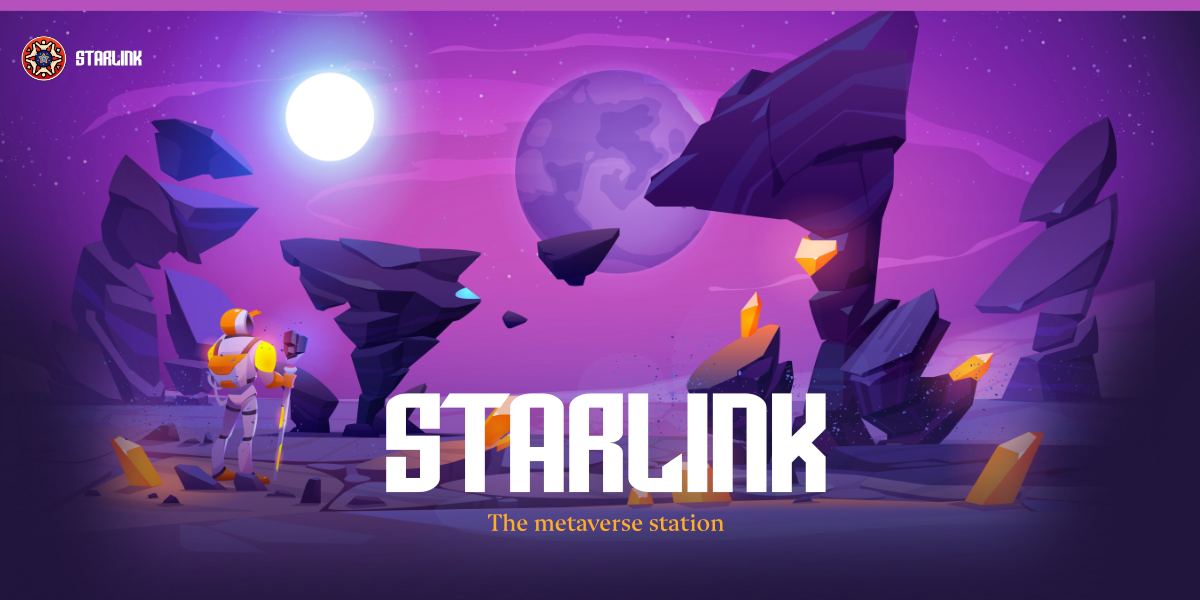
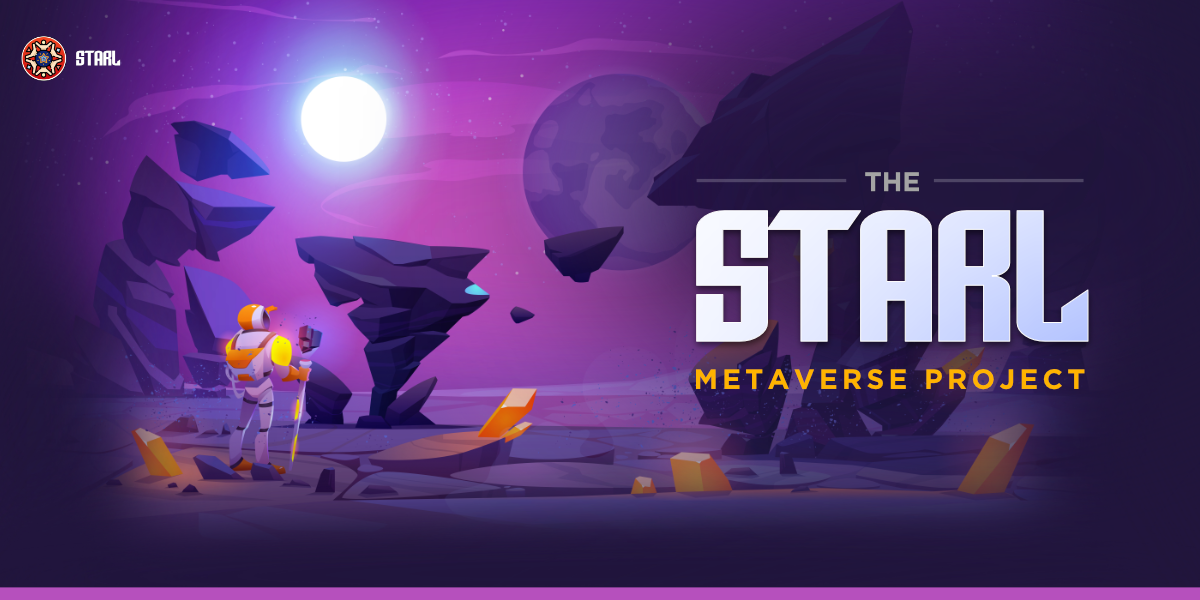
"Starlink" > "Starl Project" Updates

diff --git a/index.html b/index.html
@@ -5,15 +5,15 @@
   <meta charset="utf-8">
   <meta name="viewport" content="width=device-width, initial-scale=1.0">
   <link rel="shortcut icon" href="img/favicon.ico">
-  <title>Starlink - Decentralized Virtual Space Development</title>
+  <title>Starl - Decentralized Virtual Space Development</title>
   <link rel="stylesheet" href="css/plugins.css">
   <link rel="stylesheet" type="css" href="css/master.css">
-  <meta name="description" content="StarLink is the first decentralized virtual space development project and 100% community owned project, controlled via the DAO">
+  <meta name="description" content="Starl is the first decentralized virtual space development project and 100% community owned project, controlled via the DAO">
   <link rel="canonical" href="index.html">
   <meta property="og:locale" content="en_US">
   <meta property="og:type" content="website">
-  <meta property="og:title" content="StarLink - Decentralized Virtual Space Development Project">
-  <meta property="og:description" content="StarLink is the first decentralized virtual space development project and 100% community owned project, controlled via the DAO">
+  <meta property="og:title" content="Starl - Decentralized Virtual Space Development Project">
+  <meta property="og:description" content="Starl is the first decentralized virtual space development project and 100% community owned project, controlled via the DAO">
   <meta property="og:url" content="">
   <meta property="og:image" content="img/banner.png">
   <meta content="summary_large_image" name="twitter:card">
@@ -41,11 +41,11 @@
               </li>
               <li class="nav-item dropdown"><a class="nav-link" href="#!">Community</a>
                 <ul class="dropdown-menu">
-                  <li class="nav-item"><a class="dropdown-item" href="https://twitter.com/StarLinkETH"><i class="uil uil-twitter"></i> Twitter</a></li>
-                  <li class="nav-item"><a class="dropdown-item" href="https://t.me/starlinkofficial"><i class="uil uil-telegram"></i> Telegram</a></li>
-                  <li class="nav-item"><a class="dropdown-item" href="https://reddit.com/r/starlink_metaverse"><i class="uil uil-reddit-alien-alt"></i> Reddit</a></li>
-                  <li class="nav-item"><a class="dropdown-item" href="https://github.com/StarlinkMeta"><i class="uil uil-github"></i> Github</a> </li>
-                  <li class="nav-item"><a class="dropdown-item" href="https://starlinkmeta.medium.com/"><i class="uil uil-medium-m"></i> Medium</a> </li>
+                  <li class="nav-item"><a class="dropdown-item" href="https://twitter.com/StarlETH"><i class="uil uil-twitter"></i> Twitter</a></li>
+                  <li class="nav-item"><a class="dropdown-item" href="https://t.me/Starlofficial"><i class="uil uil-telegram"></i> Telegram</a></li>
+                  <li class="nav-item"><a class="dropdown-item" href="https://reddit.com/r/Starl_metaverse"><i class="uil uil-reddit-alien-alt"></i> Reddit</a></li>
+                  <li class="nav-item"><a class="dropdown-item" href="https://github.com/StarlMeta"><i class="uil uil-github"></i> Github</a> </li>
+                  <li class="nav-item"><a class="dropdown-item" href="https://Starlmeta.medium.com/"><i class="uil uil-medium-m"></i> Medium</a> </li>
                 </ul>
               </li>
               <li class="nav-item "><a class="nav-link" href="whitepaper.pdf">Whitepaper</a>
@@ -97,9 +97,11 @@
       <div class="container py-14 pt-md-15 pb-md-18 pb-20 hero-banner">
         <div class="row text-center">
           <div class="col-lg-9 col-xxl-7 mx-auto" data-cues="zoomIn" data-group="welcome" data-interval="-200">
-            <h2 class="fs-16 text-uppercase ls-xl sub-head">The Metaverse Station</h2>
-            <h1 class="display-1 fs-58 text-white text-shadow">STARLINK</h1>
-            <p class="lead px-md-5 px-xl-15 px-xxl-10 mb-7 text-white text-shadow">StarLink is the first 100% community owned decentralized virtual space project. $STARL is the governance token of the StarLink Ecosystem. Buy, sell and trade virtual satellites, spacecraft and lands while exploring the solar system. The possibilities are endless.</p>
+            <span class="intro fs-15">THE</span>
+            <h1 class="display-1 fs-58 text-white text-shadow">STARL</h1>
+            <h2 class="fs-16 text-uppercase ls-xl sub-head">Metaverse project</h2>
+            
+            <p class="lead px-md-5 px-xl-15 px-xxl-10 mb-7 text-white text-shadow">Starl is the first 100% community owned decentralized virtual space project. $STARL is the governance token of the Starl Ecosystem. Buy, sell and trade virtual satellites, spacecraft and lands while exploring the solar system. The possibilities are endless.</p>
           </div>
           <!-- /column -->
         </div>
@@ -149,8 +151,8 @@
                   <div class="col-lg-12">
                     <div class="card shadow-lg mb-md-6 mt-lg-6">
                       <div class="card-body box-constellation-a">
-                        <h4>Starlink Token?</h4>
-                        <p class="mb-2 ">Starlink tokens are the investment tool to purchase virtual land in Starlink Station, which will mimic a real world space station positioned in a very real quadrant of the galaxy.</p>
+                        <h4>Starl Token?</h4>
+                        <p class="mb-2 ">Starl tokens are the investment tool to purchase virtual land in Starl Metaverse Station, which will mimic a real world space station positioned in a very real quadrant of the galaxy.</p>
                       </div>
                       <!--/.card-body -->
                     </div>
@@ -166,10 +168,10 @@
           </div>
           <!-- /column -->
           <div class="col-lg-5 offset-lg-1">
-            <h2 class="display-4 mb-3 text-white">What is Starlink?</h2>
-            <p class="lead fs-lg lh-sm sub-head">Starlink is a project with the ability to utilize the power of the blockchain and decentralization in order to infinitely expand upon and honor the true vision of a new financial paradigm.</p>
+            <h2 class="display-4 mb-3 text-white">What is Starl Metaverse?</h2>
+            <p class="lead fs-lg lh-sm sub-head">Starl Metaverse is a project with the ability to utilize the power of the blockchain and decentralization in order to infinitely expand upon and honor the true vision of a new financial paradigm.</p>
             <p class="text-white"> Human interaction and socialization has become overwhelmingly virtual; most people have moved their social and business relationships to their phone or laptop. It is now, during a global pandemic that has driven us online more so than ever. These new habits have already become permanent behavioral and cultural shifts, irrevocably changing what we consider normal and acceptable.</p>
-            <p class="text-white">In this way the social responsibility that exists to provide tools and resources in the virtual space is essential to create a fun and adaptive environment for individuals to thrive and monetize. This stands at the core of our ethos at Starlink. </p>
+            <p class="text-white">In this way the social responsibility that exists to provide tools and resources in the virtual space is essential to create a fun and adaptive environment for individuals to thrive and monetize. This stands at the core of our ethos at Starl. </p>
             <a href="whitepaper.pdf" class="btn btn-primary rounded-pill mt-3">Read Whitepaper</a>
           </div>
           <!-- /column -->
@@ -195,17 +197,17 @@
             <p class="lead fs-lg text-white">Digital real estate has become a legitimate asset class, one worthy of
               investor consideration and is going to appreciate exponentially over the
               near term.</p>
-            <p class="mb-6 text-white">In this perspective, Starlink tokens become the investment tool to purchase virtual
-              land in Starlink Station, which will mimic a real world space station
-              positioned in a very real quadrant of the galaxy. Here are some of the main points of the Starlink Ecosystem: </p>
+            <p class="mb-6 text-white">In this perspective, Starl tokens become the investment tool to purchase virtual
+              land in Starl Station, which will mimic a real world space station
+              positioned in a very real quadrant of the galaxy. Here are some of the main points of the Starl Ecosystem: </p>
             <div class="row gy-3 gx-xl-8">
               <div class="col-xl-6">
                 <ul class="icon-list bullet-bg bullet-soft-primary mb-0">
                   <li><span><i class="uil uil-coins"></i></span><span class="text-white-50"><h4 class="text-white">STARL Token</h4> The utility token powered by Ethereum
-                    Blockchain that serves the utilities as the basis within the Starlink
+                    Blockchain that serves the utilities as the basis within the Starl
                     ecosystem.</span></li>
                   <li class="mt-3"><span><i class="uil uil-puzzle-piece"></i></span><span class="text-white-50"><h4 class="text-white">SATE NFTs</h4>Non-fungible, transferrable digital assets representing
-                    satellites and any other virtual estates of the Starlink Metaverse.</span></li>
+                    satellites and any other virtual estates of the Starl Metaverse.</span></li>
                   <li class="mt-3"><span><i class="uil uil-star"></i></span><span class="text-white-50"><h4 class="text-white">Universe</h4>A gamified 3D virtual space metaverse which is a part
                     of the Star-link ecosystem.</span></li>
                 </ul>
@@ -215,9 +217,9 @@
                 <ul class="icon-list bullet-bg bullet-soft-primary mb-0">
                   <li><span><i class="uil uil-users-alt"></i></span><span class="text-white-50"><h4 class="text-white">Profile</h4> A graphical representation of players in the virtual space
                     metaverse.</span></li>
-                  <li class="mt-3"><span><i class="uil uil-money-insert"></i></span><span class="text-white-50"><h4 class="text-white">Starlink DAO</h4>STARL tokens within the Starlink ecosystem will be allocated for
+                  <li class="mt-3"><span><i class="uil uil-money-insert"></i></span><span class="text-white-50"><h4 class="text-white">Starl DAO</h4>STARL tokens within the Starl ecosystem will be allocated for
                     voting within a DAO ensuring the project is self-sustaining and has no owner at the helm.</span></li>
-                  <li class="mt-3"><span><i class="uil uil-cart"></i></span><span class="text-white-50"><h4 class="text-white">Marketplace</h4>Starlink
+                  <li class="mt-3"><span><i class="uil uil-cart"></i></span><span class="text-white-50"><h4 class="text-white">Marketplace</h4>Starl
                     marketplace enables participants to manage and exchange SATE
                     NFTs, priced in $STARL.</span></li>
                 </ul>
@@ -264,7 +266,7 @@
                 <h4>MISSION 02</h4>
                 <ul class="icon-list bullet-bg bullet-soft-primary mb-0">
                   <li class="completed"><span><i class="uil uil-check"></i></span><span>SATE NFT Smart Contract (July 2021)</span></li>
-                  <li class="mt-3 completed"><span><i class="uil uil-check"></i></span><span>Starlink Marketplace Launch (Aug 2021)</span></li>
+                  <li class="mt-3 completed"><span><i class="uil uil-check"></i></span><span>Starl Marketplace Launch (Aug 2021)</span></li>
                   <li class="mt-3"><span><i class="uil uil-check"></i></span><span>TheGraph Implementation for Transparency (Aug 2021)</span></li>
                   <li class="mt-3"><span><i class="uil uil-check"></i></span><span>Profile Implementation (Aug 2021)</span></li>
                 </ul>
@@ -282,7 +284,7 @@
                 <h4>MISSION 03</h4>
                 <ul class="icon-list bullet-bg bullet-soft-primary mb-0">
                   <li><span><i class="uil uil-check"></i></span><span>Universe Beta Release (Oct 2021)</span></li>
-                  <li class="mt-3"><span><i class="uil uil-check"></i></span><span>Starlink DAO Launch (Dec 2021) </span></li>
+                  <li class="mt-3"><span><i class="uil uil-check"></i></span><span>Starl DAO Launch (Dec 2021) </span></li>
                   <li class="mt-3"><span><i class="uil uil-check"></i></span><span>Metaverse 3D Migration (2022)</span></li>
                 </ul>
 
@@ -329,7 +331,7 @@
           <div class="col-lg-6" id="tokenomics">
             <h2 class="fs-15 text-uppercase text-line text-primary mb-3 sub-head">Community always comes first.</h2>
             <h3 class="display-5 mb-5 text-white">Fair Tokenomics.</h3>
-            <p class="mb-7 text-white">To build our vehicle for a democracy beyond Earth, we based Starlink on fair tokenomics and launch, with no presale, no dev tokens, and no dev tax.</p>
+            <p class="mb-7 text-white">To build our vehicle for a democracy beyond Earth, we based Starl on fair tokenomics and launch, with no presale, no dev tokens, and no dev tax.</p>
             <div class="row counter-wrapper gy-6">
               <div class="col-md-4">
                 <h3 class="counter text-primary">NO</h3>
@@ -399,12 +401,12 @@
               <!--/.accordion-item -->
               <div class="card plain accordion-item">
                 <div class="card-header" id="headingThree">
-                  <button class="collapsed" data-bs-toggle="collapse" data-bs-target="#collapseThree" aria-expanded="false" aria-controls="collapseThree">Is StarLink a game? </button>
+                  <button class="collapsed" data-bs-toggle="collapse" data-bs-target="#collapseThree" aria-expanded="false" aria-controls="collapseThree">Is Starl a game? </button>
                 </div>
                 <!--/.card-header -->
                 <div id="collapseThree" class="accordion-collapse collapse" aria-labelledby="headingThree" data-bs-parent="#accordionExample">
                   <div class="card-body">
-                    <p>Some may think of it like a game, but this all depends on how you use it. A game, by definition, might be anything that you engage in for fun and entertainment. If you enjoy exploring and interacting with StarLink, then it can certainly be thought of and played like a game!</p>
+                    <p>Some may think of it like a game, but this all depends on how you use it. A game, by definition, might be anything that you engage in for fun and entertainment. If you enjoy exploring and interacting with Starl, then it can certainly be thought of and played like a game!</p>
                   </div>
                   <!--/.card-body -->
                 </div>
@@ -414,7 +416,7 @@
               <!--/.accordion-item -->
               <div class="card plain accordion-item">
                 <div class="card-header" id="headingThree">
-                  <button class="collapsed" data-bs-toggle="collapse" data-bs-target="#collapseFour" aria-expanded="false" aria-controls="collapseFour">What can I do in the StarLink metaverse?</button>
+                  <button class="collapsed" data-bs-toggle="collapse" data-bs-target="#collapseFour" aria-expanded="false" aria-controls="collapseFour">What can I do in the Starl metaverse?</button>
                 </div>
                 <!--/.card-header -->
                 <div id="collapseFour" class="accordion-collapse collapse" aria-labelledby="headingThree" data-bs-parent="#accordionExample">
@@ -434,7 +436,7 @@
                 <!--/.card-header -->
                 <div id="collapseFive" class="accordion-collapse collapse" aria-labelledby="headingThree" data-bs-parent="#accordionExample">
                   <div class="card-body">
-                    <p>Absolutely. The StarLink token will be used as the currency for transactions in the metaverse, allowing users to purchase their own slice of the space station, satellites that they can monetize through advertising, buying and selling NFTs, trading items to customize avatars and space, trading services, and many other things, all in an interconnected and dynamic economy within the StarLink ecosystem. StarLink can of course also be traded for other digital cryptocurrencies or fiat.</p>
+                    <p>Absolutely. The Starl token will be used as the currency for transactions in the metaverse, allowing users to purchase their own slice of the space station, satellites that they can monetize through advertising, buying and selling NFTs, trading items to customize avatars and space, trading services, and many other things, all in an interconnected and dynamic economy within the Starl ecosystem. Starl can of course also be traded for other digital cryptocurrencies or fiat.</p>
                   </div>
                   <!--/.card-body -->
                 </div>
@@ -449,7 +451,7 @@
                 <!--/.card-header -->
                 <div id="collapseSix" class="accordion-collapse collapse" aria-labelledby="headingThree" data-bs-parent="#accordionExample">
                   <div class="card-body">
-                    <p>The StarLink Metaverse is being developed by Woof Decentra and Moe Larson, as well as a dynamic team of 3D artists and programmers. Woof Decentra is the well respected developer behind the Shiba Inu related token, Leash, with StarLink being a new venture into the world of the metaverse. Moe has been investing in and developing cryptocurrency projects for a decade, almost unmatched in experience and ability when it comes to directing, managing, and enhancing crypto related projects. Together they make a formidable team, with a community of like-minded and supportive individuals behind them who have full confidence and enthusiasm for the StarLink vision.</p>
+                    <p>The Starl Metaverse is being developed by Woof Decentra and Moe Larson, as well as a dynamic team of 3D artists and programmers. Woof Decentra is the well respected developer behind the Shiba Inu related token, Leash, with Starl being a new venture into the world of the metaverse. Moe has been investing in and developing cryptocurrency projects for a decade, almost unmatched in experience and ability when it comes to directing, managing, and enhancing crypto related projects. Together they make a formidable team, with a community of like-minded and supportive individuals behind them who have full confidence and enthusiasm for the Starl vision.</p>
                   </div>
                   <!--/.card-body -->
                 </div>
@@ -464,7 +466,7 @@
                 <!--/.card-header -->
                 <div id="collapseSeven" class="accordion-collapse collapse" aria-labelledby="headingThree" data-bs-parent="#accordionExample">
                   <div class="card-body">
-                    <p>Being fully decentralized, the StarLink Metaverse is going to require effort and resources to get where we expect it to be. If you feel like helping us with donations you can send them at this address 0x5Bb2d4DCC82983d8EA7E5Bf114D9769A21e2DD67. We Accept Any ERC20 Token, but preferred are $ETH, $USDC, $USDT.</p>
+                    <p>Being fully decentralized, the Starl Metaverse is going to require effort and resources to get where we expect it to be. If you feel like helping us with donations you can send them at this address 0x5Bb2d4DCC82983d8EA7E5Bf114D9769A21e2DD67. We Accept Any ERC20 Token, but preferred are $ETH, $USDC, $USDT.</p>
                   </div>
                   <!--/.card-body -->
                 </div>
@@ -490,9 +492,9 @@
       <div class="row gy-6 gy-lg-0">
         <div class="col-lg-4">
           <div class="widget">
-            <h3 class="h2 mb-3 text-white-50">Join the Starlink Community</h3>
+            <h3 class="h2 mb-3 text-white-50">Join the Starl Community</h3>
             <p class="lead mb-5">Let's make something great together. We are trusted by over 6500+ holders. Join us to build the greatest ecosystem crypto has ever seen.</p>
-            <a href="https://t.me/starlinkofficial" class="btn btn-primary rounded-pill"> Join Us <i class="uil uil-telegram"></i></a>
+            <a href="https://t.me/Starlofficial" class="btn btn-primary rounded-pill"> Join Us <i class="uil uil-telegram"></i></a>
           </div>
           <!-- /.widget -->
         </div>
@@ -512,13 +514,13 @@
         <!-- /column -->
         <div class="col-md-6 col-lg-3">
           <div class="widget">
-            <h4 class="widget-title mb-3 text-white-50">Learn About Starlink</h4>
+            <h4 class="widget-title mb-3 text-white-50">Learn About Starl</h4>
             <ul class="list-unstyled text-reset mb-0">
               <li><a href="#about">About</a></li>
               <li><a href="#tokenomics">Tokenomics</a></li>
               <li><a href="#faq">FAQ</a></li>
               <li><a href="mailto:contact@starltoken.com">Contact us</a></li>
-              <li><a href="https://www.coingecko.com/en/coins/starlink">Coingecko</a></li>
+              <li><a href="https://www.coingecko.com/en/coins/Starl">Coingecko</a></li>
               <li><a href="https://coinmarketcap.com/currencies/star-link/">Coinmarketcap</a></li>
             </ul>
           </div>
@@ -529,17 +531,18 @@
       <!--/.row -->
       <hr class="mt-13 mt-md-15 mb-7" />
       <div class="d-md-flex align-items-center justify-content-between">
-        <p class="mb-2 mb-lg-0">© 2021 Starlink. All rights reserved.</p>
+        <p class="mb-2 mb-lg-0">© 2021 Starl Metaverse Project. All rights reserved. </p><br>
         <nav class="nav social text-md-end">
-          <a href="https://twitter.com/StarLinkETH"><i class="uil uil-twitter"></i></a>
-          <a href="https://t.me/starlinkofficial"><i class="uil uil-telegram"></i></a>
-          <a href="https://reddit.com/r/starlink_metaverse"><i class="uil uil-reddit-alien-alt"></i></a>
-          <a href="https://github.com/StarlinkMeta"><i class="uil uil-github"></i></a>
-          <a href="https://starlinkmeta.medium.com/"><i class="uil uil-medium-m"></i></a>
+          <a href="https://twitter.com/StarlETH"><i class="uil uil-twitter"></i></a>
+          <a href="https://t.me/Starlofficial"><i class="uil uil-telegram"></i></a>
+          <a href="https://reddit.com/r/Starl_metaverse"><i class="uil uil-reddit-alien-alt"></i></a>
+          <a href="https://github.com/StarlMeta"><i class="uil uil-github"></i></a>
+          <a href="https://Starlmeta.medium.com/"><i class="uil uil-medium-m"></i></a>
           
         </nav>
         <!-- /.social -->
       </div>
+      <small class="text-white-50">STARL Metaverse Project has no affiliation with any space company, agency, or project.  STARL is an educational and parody simulation of space agencies and programs worldwide</small>
       <!-- /div -->
     </div>
     <!-- /.container -->

diff --git a/index-cn.html b/index-cn.html
@@ -5,15 +5,15 @@
   <meta charset="utf-8">
   <meta name="viewport" content="width=device-width, initial-scale=1.0">
   <link rel="shortcut icon" href="img/favicon.ico">
-  <title>Starlink - Decentralized Virtual Space Development</title>
+  <title>Starl - Decentralized Virtual Space Development</title>
   <link rel="stylesheet" href="css/plugins.css">
   <link rel="stylesheet" type="css" href="css/master.css">
-  <meta name="description" content="StarLink is the first decentralized virtual space development project and 100% community owned project, controlled via the DAO">
+  <meta name="description" content="Starl is the first decentralized virtual space development project and 100% community owned project, controlled via the DAO">
   <link rel="canonical" href="index.html">
   <meta property="og:locale" content="en_US">
   <meta property="og:type" content="website">
-  <meta property="og:title" content="StarLink - Decentralized Virtual Space Development Project">
-  <meta property="og:description" content="StarLink is the first decentralized virtual space development project and 100% community owned project, controlled via the DAO">
+  <meta property="og:title" content="Starl - Decentralized Virtual Space Development Project">
+  <meta property="og:description" content="Starl is the first decentralized virtual space development project and 100% community owned project, controlled via the DAO">
   <meta property="og:url" content="">
   <meta property="og:image" content="img/banner.png">
   <meta content="summary_large_image" name="twitter:card">
@@ -41,11 +41,11 @@
               </li>
               <li class="nav-item dropdown"><a class="nav-link" href="#!">社区</a>
                 <ul class="dropdown-menu">
-                  <li class="nav-item"><a class="dropdown-item" href="https://twitter.com/StarLinkETH"><i class="uil uil-twitter"></i> Twitter</a></li>
-                  <li class="nav-item"><a class="dropdown-item" href="https://t.me/starlinkofficial"><i class="uil uil-telegram"></i> Telegram</a></li>
-                  <li class="nav-item"><a class="dropdown-item" href="https://reddit.com/r/starlink_metaverse"><i class="uil uil-reddit-alien-alt"></i> Reddit</a></li>
-                  <li class="nav-item"><a class="dropdown-item" href="https://github.com/StarlinkMeta"><i class="uil uil-github"></i> Github</a> </li>
-                  <li class="nav-item"><a class="dropdown-item" href="https://starlinkmeta.medium.com/"><i class="uil uil-medium-m"></i> Medium</a> </li>
+                  <li class="nav-item"><a class="dropdown-item" href="https://twitter.com/StarlETH"><i class="uil uil-twitter"></i> Twitter</a></li>
+                  <li class="nav-item"><a class="dropdown-item" href="https://t.me/Starlofficial"><i class="uil uil-telegram"></i> Telegram</a></li>
+                  <li class="nav-item"><a class="dropdown-item" href="https://reddit.com/r/Starl_metaverse"><i class="uil uil-reddit-alien-alt"></i> Reddit</a></li>
+                  <li class="nav-item"><a class="dropdown-item" href="https://github.com/StarlMeta"><i class="uil uil-github"></i> Github</a> </li>
+                  <li class="nav-item"><a class="dropdown-item" href="https://Starlmeta.medium.com/"><i class="uil uil-medium-m"></i> Medium</a> </li>
                 </ul>
               </li>
               <li class="nav-item "><a class="nav-link" href="星链白皮书1.0正式版本.pdf">白皮书</a>
@@ -100,8 +100,9 @@
       <div class="container py-14 pt-md-15 pb-md-18 pb-20 hero-banner">
         <div class="row text-center">
           <div class="col-lg-9 col-xxl-7 mx-auto" data-cues="zoomIn" data-group="welcome" data-interval="-200">
+            
+            <h1 class="display-1 fs-58 text-white text-shadow">Starl</h1>
             <h2 class="fs-16 text-uppercase ls-xl sub-head">元宇宙世界</h2>
-            <h1 class="display-1 fs-58 text-white text-shadow">STARLINK</h1>
             <p class="lead px-md-5 px-xl-15 px-xxl-10 mb-7 text-white text-shadow">星链是第一个100%由社区拥有的去中心化的虚拟空间项目。$Starl是星链元宇宙生态系统的治理代币。购买、出售、交易虚拟卫星、航天器、土地并且探索太阳系。 我们拥有无限可能。</p>
           </div>
           <!-- /column -->
@@ -484,7 +485,7 @@
           <div class="widget">
             <h3 class="h2 mb-3 text-white-50">加入星链社区</h3>
             <p class="lead mb-5">让我们一起共铸辉煌。我们受到超过 6500 名持有者的信任。 加入我们，建立有史以来最伟大的加密生态系统。</p>
-            <a href="https://t.me/starlinkofficial" class="btn btn-primary rounded-pill"> 加入我们 <i class="uil uil-telegram"></i></a>
+            <a href="https://t.me/Starlofficial" class="btn btn-primary rounded-pill"> 加入我们 <i class="uil uil-telegram"></i></a>
           </div>
           <!-- /.widget -->
         </div>
@@ -510,7 +511,7 @@
               <li><a href="#tokenomics">代币生态</a></li>
               <li><a href="#faq">常见问题解答</a></li>
               <li><a href="mailto:contact@starltoken.com">联系</a></li>
-              <li><a href="https://www.coingecko.com/en/coins/starlink">Coingecko</a></li>
+              <li><a href="https://www.coingecko.com/en/coins/Starl">Coingecko</a></li>
               <li><a href="https://coinmarketcap.com/currencies/star-link/">Coinmarketcap</a></li>
             </ul>
           </div>
@@ -521,13 +522,13 @@
       <!--/.row -->
       <hr class="mt-13 mt-md-15 mb-7" />
       <div class="d-md-flex align-items-center justify-content-between">
-        <p class="mb-2 mb-lg-0">© 2021 Starlink. All rights reserved.</p>
+        <p class="mb-2 mb-lg-0">© 2021 Starl. All rights reserved.</p>
         <nav class="nav social text-md-end">
-          <a href="https://twitter.com/StarLinkETH"><i class="uil uil-twitter"></i></a>
-          <a href="https://t.me/starlinkofficial"><i class="uil uil-telegram"></i></a>
-          <a href="https://reddit.com/r/starlink_metaverse"><i class="uil uil-reddit-alien-alt"></i></a>
-          <a href="https://github.com/StarlinkMeta"><i class="uil uil-github"></i></a>
-          <a href="https://starlinkmeta.medium.com/"><i class="uil uil-medium-m"></i></a>
+          <a href="https://twitter.com/StarlETH"><i class="uil uil-twitter"></i></a>
+          <a href="https://t.me/Starlofficial"><i class="uil uil-telegram"></i></a>
+          <a href="https://reddit.com/r/Starl_metaverse"><i class="uil uil-reddit-alien-alt"></i></a>
+          <a href="https://github.com/StarlMeta"><i class="uil uil-github"></i></a>
+          <a href="https://Starlmeta.medium.com/"><i class="uil uil-medium-m"></i></a>
           
         </nav>
         <!-- /.social -->

diff --git a/css/master.css b/css/master.css
@@ -15,8 +15,27 @@ body {background: #21153b  url(../img/bgs/main-bg.jpg) top center no-repeat; bac
 .hero-banner {padding-bottom: 45%!important;}
 .bg-dark {background-color: #21153b !important;}
 
-.sub-head {color: #FFAE1E!important;}
-.text-shadow {text-shadow: 1px 1px 3px #372677;}
+.intro {color: #fff!important; display: block; margin-bottom: 0;}
+.intro:before, .intro:after{
+    position: absolute;
+    top: 51%;
+    overflow: hidden;
+    width: 10%;
+    height: 1px;
+    left: 35%;
+    content: '\a0';
+    background-color:rgba(255, 255, 255, 0.4);
+}
+.intro:after {
+    left: auto;
+    right: 35%;
+    text-align: right;
+    
+}
+
+.sub-head {color: #FFAE1E!important; }
+.hero-banner .sub-head {letter-spacing: 7px!important; margin-bottom: 3em;}
+.text-shadow {text-shadow: 1px 1px 3px #372677; margin-bottom: -20px; }
 
 .icon-list.bullet-soft-primary.bullet-bg .completed  {text-decoration:line-through;}
 .icon-list.bullet-soft-primary.bullet-bg .completed i {background-color: green!important; color: white!important;}
@@ -31,9 +50,12 @@ body {background: #21153b  url(../img/bgs/main-bg.jpg) top center no-repeat; bac
 
 .offcanvas-header img {max-width: 60%!important;}
 
+.navbar .navbar-brand{padding-top:.8rem; padding-bottom:.8rem;}
+
+
 @media (min-width: 360px){
-    .display-1 {font-size: 5em!important; letter-spacing: 2px!important; font-weight: normal!important;}
-    body{background-size: 130%;}
+    .display-1 {font-size: 6em!important; letter-spacing: 2px!important; font-weight: normal!important;}
+    body{background-size: 140%;}
     .hero-banner {padding-top: 60%!important;}
     .navbar-dark .navbar-brand img {width: 70%!important;}
 }
